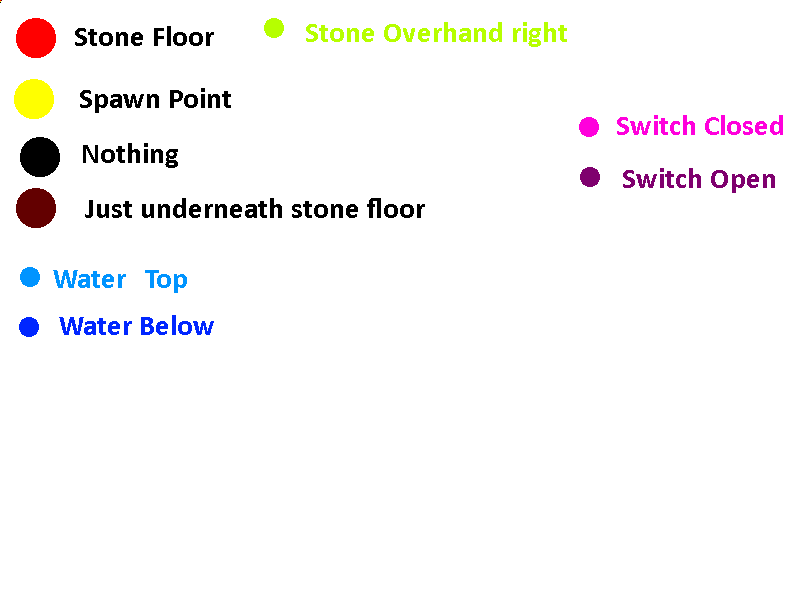
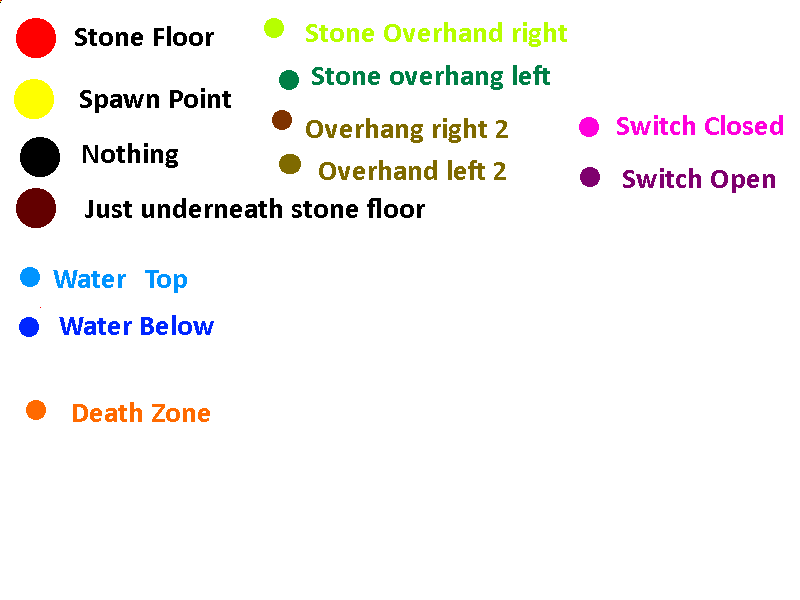
More work

diff --git a/Source/Player.cc b/Source/Player.cc
@@ -20,7 +20,7 @@ void Player::Die()
 	Position = Vector3(config::PlayerSpawnPoint.X, config::PlayerSpawnPoint.Y, 0.0f);
 }
 
-void Player::ThrowStone(float angle, float speed)
+void Player::ThrowStone(float angle, float speed, bool back)
 {
 	if (CurrentStone) 
 		delete CurrentStone;
@@ -30,6 +30,10 @@ void Player::ThrowStone(float angle, float speed)
 		speed * Maths::Cos(Maths::ToRadians(angle)),
 		-(speed * Maths::Sin(Maths::ToRadians(angle)))
 	};
+	
+	if (back)
+		CurrentStone->Velocity.X = -CurrentStone->Velocity.X;
+	
 	CurrentStone->Position = Vector2(Position.X, Position.Y+5);
 }
 
@@ -71,8 +75,10 @@ void Player::Tick(const platform::GameTime& time) {
 	auto mouse = global::Window->GetInputController()->GetMouseDevice();
 
 	if (mouse->IsButtonDown(input::MouseButton::Left)) {
-		if(StoneForce < 10.f)
+		if (StoneForce < 5.f) {
 			StoneForce += 0.1f;
+		}
+		global::MainCamera->Shake(1.0f, StoneForce/16.f);
 	}
 
 	global::MainCamera->Update();
@@ -92,18 +98,17 @@ void Player::Tick(const platform::GameTime& time) {
 		mousePos = mousePos + Vector2(global::MainCamera->Position.X, global::MainCamera->Position.Y);
 
 		Vector2 d = mousePos - posActual;
-		d.X = Maths::Absf(d.X);
+		//d.X = Maths::Absf(d.X);
 		d.Y = Maths::Absf(d.Y);
 
 		angle = Maths::Asin(d.Y / d.Length());
-
-		ThrowStone(Maths::ToDegrees(angle), force);
+		ThrowStone(Maths::ToDegrees(angle), force, d.X < 0);
 		StoneForce = 0;
 	}
 
 	if (CurrentStone) {
 		if (CurrentStone->Velocity.Y < 0.5f) {
-			CurrentStone->Velocity += config::Gravity/2;
+			CurrentStone->Velocity.Y += config::Gravity/2;
 		}
 
 		CurrentStone->Position = CurrentStone->Position + CurrentStone->Velocity * time.DeltaInMilliSeconds();
@@ -174,7 +179,6 @@ void Player::ResolveCollisions()
 					}
 				}
 			}
-
 
 			bool x1 = tilePos.X > Position.X + 16.f;
 			bool x2 = tilePos.X + 16.f < Position.X;

diff --git a/Source/TileMap.h b/Source/TileMap.h
@@ -5,11 +5,11 @@
 #include <Math/Vector2.h>
 #include <Graphics/Renderer2D.h>
 #include <Graphics/../../../ThirdParty/lodepng/lodepng.h>
-
+#include <Platform/Time.h>
 #include "Global.h"
 #include "Spritesheet.h"
 #include "Config.h"
-
+#include "Camera.h"
 namespace ld42 {
 	using namespace gene;
 
@@ -29,6 +29,7 @@ namespace ld42 {
 		unsigned w, h;
 		Array<unsigned int> Tiles;
 
+		platform::Timer waterTimer;
 		void Load(const String& string) {
 			std::vector<unsigned char> pixels;
 			lodepng::decode(pixels, w, h, string.c_str());
@@ -59,18 +60,41 @@ namespace ld42 {
 					Tiles[x + y * w] = id;
 				}
 			}
+			waterTimer.Start();
 		}
-
 		void Draw(graphics::Renderer2D* renderer) {
+			if (waterTimer.ElapsedTimeMs() > 500) {
+				for (int y = 0; y < h; ++y) {
+					for (int x = 0; x < w; ++x) {
+						unsigned int tile = Tiles[x + y * w];
+						if (tile == WATER_TOP_COL || tile == WATER_TOP_COL2)
+						{
+							if (tile == WATER_TOP_COL)
+								Tiles[x + y * w] = WATER_TOP_COL2;
+							else
+								Tiles[x + y * w] = WATER_TOP_COL;
+						}
+					}
+				}
+				waterTimer.Stop();
+				waterTimer.Start();
+			}
+
+			Camera *camera = global::MainCamera;
+
 			for (int y = 0; y < h; ++y) {
 				for (int x = 0; x < w; ++x) {
 					unsigned int tile = Tiles[x + y * w];
+					float ax = x * 16.f;
+					//float camWidth = global::Window->Width();
+					//if (ax < camera->Position.X || ax > camera->Position.X + camWidth) continue;
 					if (tile != 0) {
 						Vector2i t = global::TileTypes[tile].UV;
 						global::TilesSheet->DrawSprite({ x*16.f, y*16.f, 0.0f }, renderer, t.X, t.Y, 16.f, 16.f);
 					}
 				}
 			}
+
 		}
 	private:
 	};

diff --git a/Source/Global.cc b/Source/Global.cc
@@ -46,10 +46,21 @@ gene::input::MouseButton global::LastMouseButtonState = gene::input::MouseButton
 gene::HashMap<unsigned int, Tile> global::TileTypes = {
 	{ STONE_FLOOR_TOP_COL, Tile(gene::Vector2i(0, 0), true, false) },
 	{ STONE_FLOOR_BOTTOM_COL, Tile(gene::Vector2i(1, 0), true,false) },
-	{ WATER_TOP_COL, Tile(gene::Vector2i(0, 2), false,true) },
 	{ STONE_OVERHAND_RIGHT1, Tile(gene::Vector2i(2, 0), true, false)},
+	{ STONE_OVERHANG_LEFT1, Tile(gene::Vector2i(3, 0), true, false) },
+	{ STONE_OVERHANG_RIGHT2, Tile(gene::Vector2i(4, 0), true, false) },
+	{ STONE_OVERHANG_LEFT2, Tile(gene::Vector2i(5, 0), true, false) },
+
+	{ WATER_TOP_COL, Tile(gene::Vector2i(0, 2), false,true) },
+	{ WATER_TOP_COL2, Tile(gene::Vector2i(2, 2), false,true) },
+
+	{ WATER_BOTTOM_COL, Tile(gene::Vector2i(1, 2), false,true) },
+
 	{ SWITCH_V_CLOSED, Tile(gene::Vector2i(1, 3), false, false) },
 	{ SWITCH_V_OPEN, Tile(gene::Vector2i(2, 3), false, false) },
+
+	{ DEATH_ZONE, Tile(gene::Vector2i(0, 4), false, true) },
+
 };
 
 bool global::KeyPressed(gene::input::Keys key) {

diff --git a/Source/Global.h b/Source/Global.h
@@ -35,11 +35,19 @@ namespace ld42 {
 #define STONE_FLOOR_TOP_COL 0xFF0000FF
 #define STONE_FLOOR_BOTTOM_COL 0x630000FF
 #define SPAWN_POINT_COL 0xFFFF00FF
+
 #define WATER_TOP_COL 0x0094FFFF
+#define WATER_TOP_COL2 -1
+#define WATER_BOTTOM_COL 0x0026FFFF
+
 #define STONE_OVERHAND_RIGHT1 0xB6FF00FF
+#define STONE_OVERHANG_LEFT1 0x007F46FF
+#define STONE_OVERHANG_RIGHT2 0x7F3300FF
+#define STONE_OVERHANG_LEFT2 0x7F6A00FF
+
 #define SWITCH_V_CLOSED 0xFF00DCFF
 #define SWITCH_V_OPEN 0x7F006EFF
-
+#define DEATH_ZONE 0xFF6A00FF
 		extern gene::HashMap<unsigned int, Tile> TileTypes;
 	}
 }

diff --git a/Source/Player.h b/Source/Player.h
@@ -32,7 +32,7 @@ namespace ld42 {
 		void Tick(const platform::GameTime& time);
 		
 		void Die();
-		void ThrowStone(float angle, float speed);
+		void ThrowStone(float angle, float speed, bool back);
 		void TurnLightOff(float time);
 		Vector3 Position;
 		Vector3 Velocity;

diff --git a/Source/Main.cc b/Source/Main.cc
@@ -79,7 +79,7 @@ namespace ld42 {
 		}
 
 		virtual void GuiDraw() override {
-			if (ld42::DebugMode) {
+			if (true) {
 				ImGui::Begin("Assets");
 				if (ImGui::Button("Refresh Assets Directory")) {
 					ld42::CopyAssetsDirectory();
